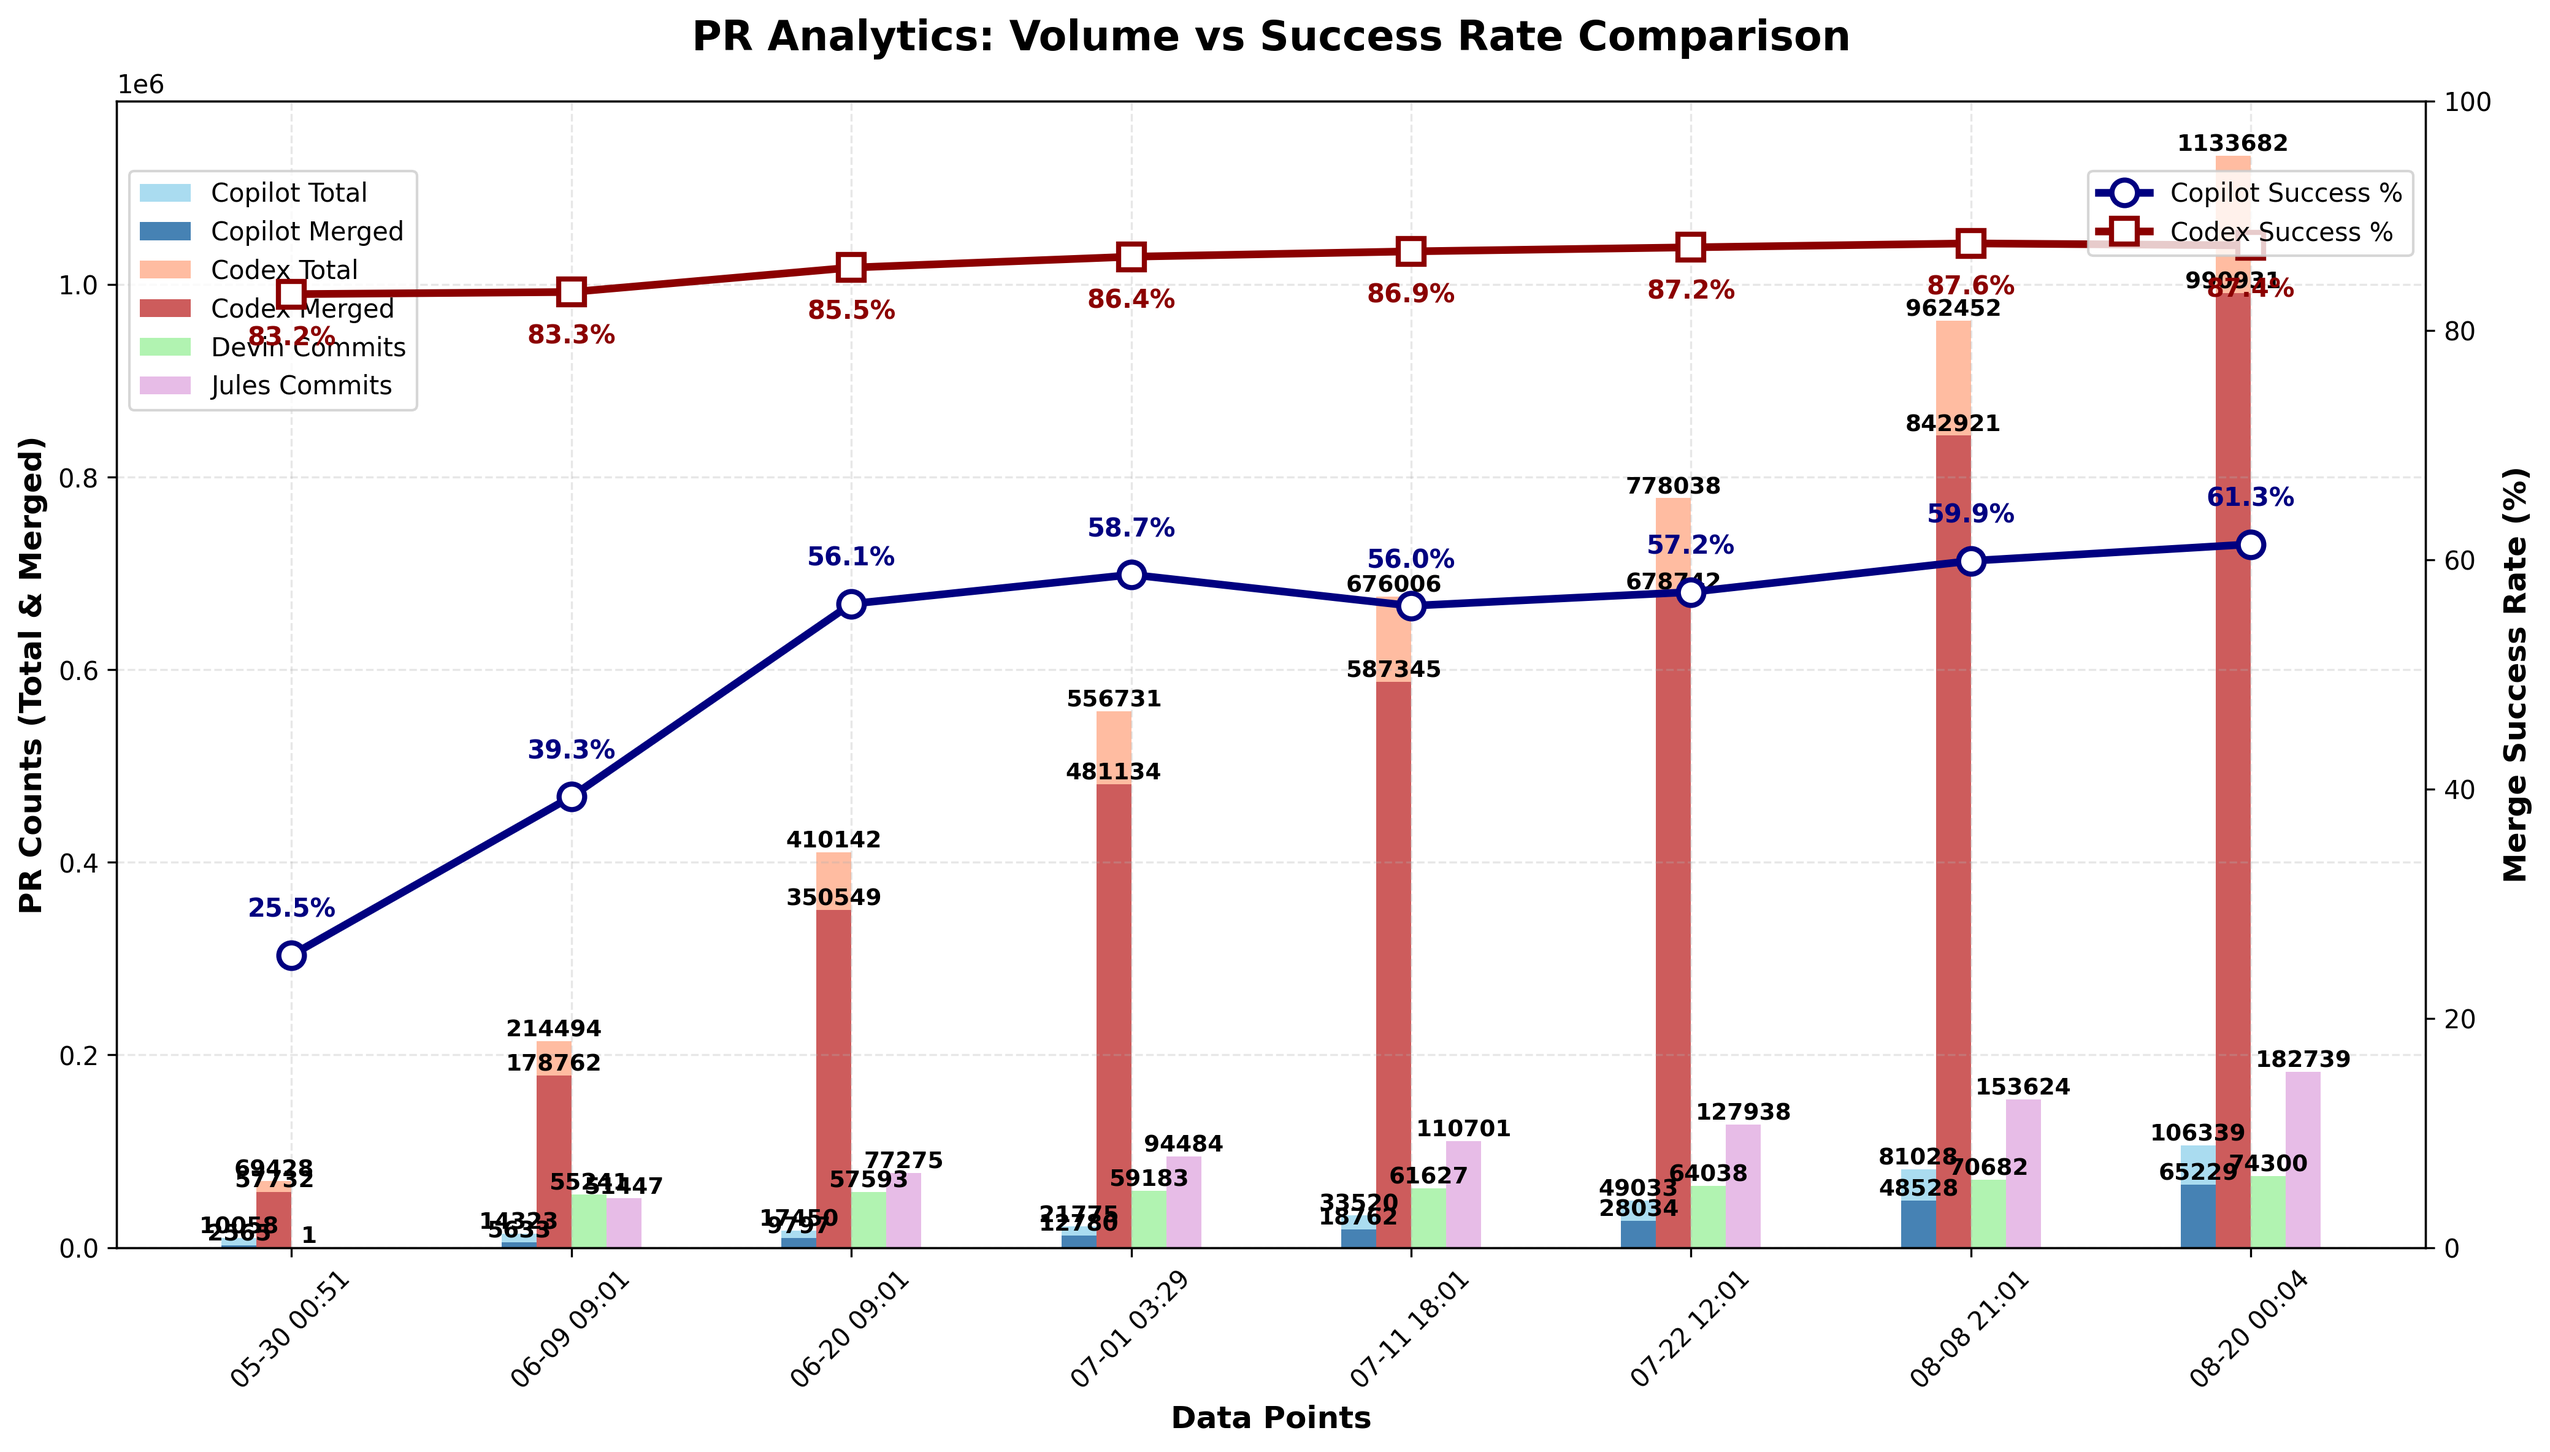
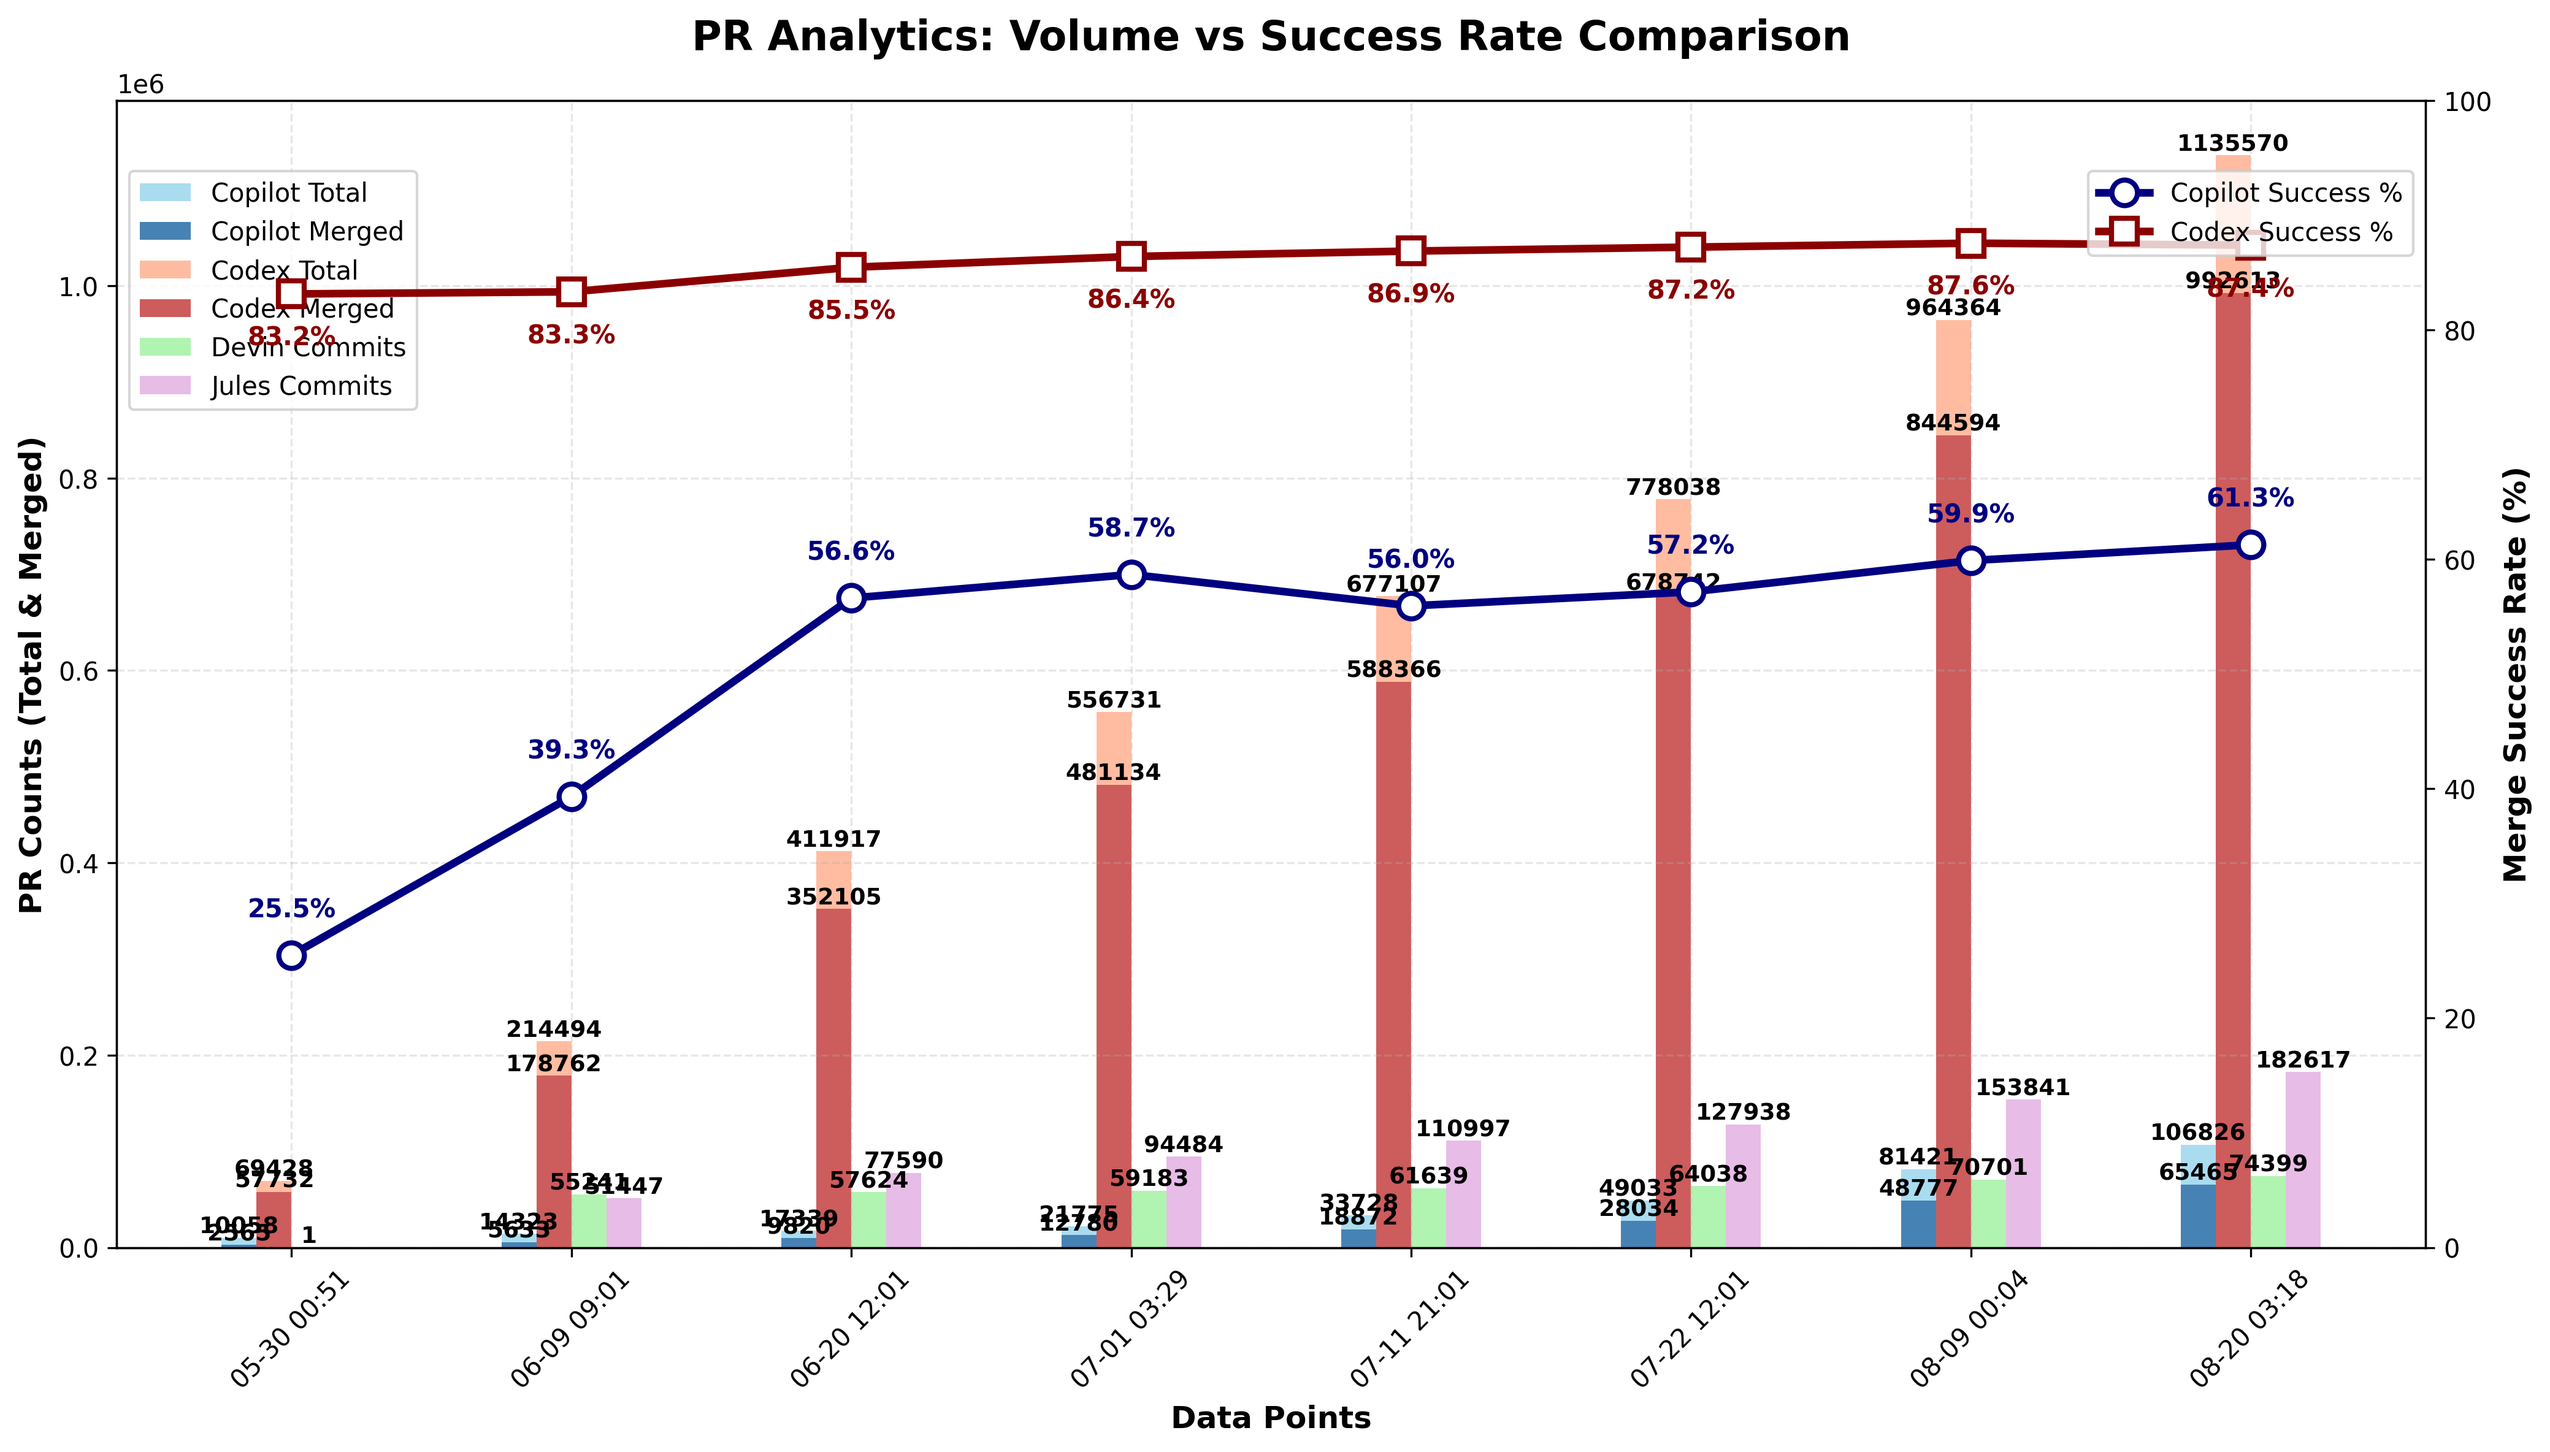
chore: update PR‑approval chart

diff --git a/docs/index.html b/docs/index.html
@@ -646,6 +646,7 @@
                         <td>N/A</td>
                         <td>N/A</td>
                         <td>N/A</td>
+                        <td>N/A</td>
                     </tr>
                     <tr>
                         <td>Codex</td>
@@ -1250,27 +1251,28 @@
                         <td>N/A</td>
                         <td>N/A</td>
                         <td>N/A</td>
+                        <td>N/A</td>
                     </tr>
                 <tr>
                         <td>Devin</td>
                         <td>N/A</td>
                         <td>N/A</td>
                         <td>N/A</td>
-                        <td>74,300</td>
+                        <td>74,399</td>
                     </tr>
                     <tr>
                         <td>Jules</td>
                         <td>N/A</td>
                         <td>N/A</td>
                         <td>N/A</td>
-                        <td>182,739</td>
+                        <td>182,617</td>
                     </tr>
                     </tbody>
             </table>
         </section>
 
         <footer>
-            <p>Last updated: <span id="last-updated">August 20, 2025 00:04 UTC</span></p>
+            <p>Last updated: <span id="last-updated">August 20, 2025 03:18 UTC</span></p>
             <p><a href="https://github.com/aavetis/ai-pr-watcher">View on GitHub</a></p>
         </footer>
     </div>

diff --git a/README.md b/README.md
@@ -19,7 +19,7 @@ Explore the GitHub search queries used:
 
 | Service | Total PRs | Merged PRs | Merge Rate | Total Commits |
 | ------- | --------- | ---------- | ---------- | ------------- |
-| Copilot | 106,339 | 65,229 | 61.34% | N/A           |
-| Codex   | 1,133,682 | 990,931 | 87.41% | N/A           |
-| Devin   | N/A       | N/A        | N/A        | 74,300 |
-| Jules   | N/A       | N/A        | N/A        | 182,739 |
+| Copilot | 106,826 | 65,465 | 61.28% | N/A           |
+| Codex   | 1,135,570 | 992,613 | 87.41% | N/A           |
+| Devin   | N/A       | N/A        | N/A        | 74,399 |
+| Jules   | N/A       | N/A        | N/A        | 182,617 |
